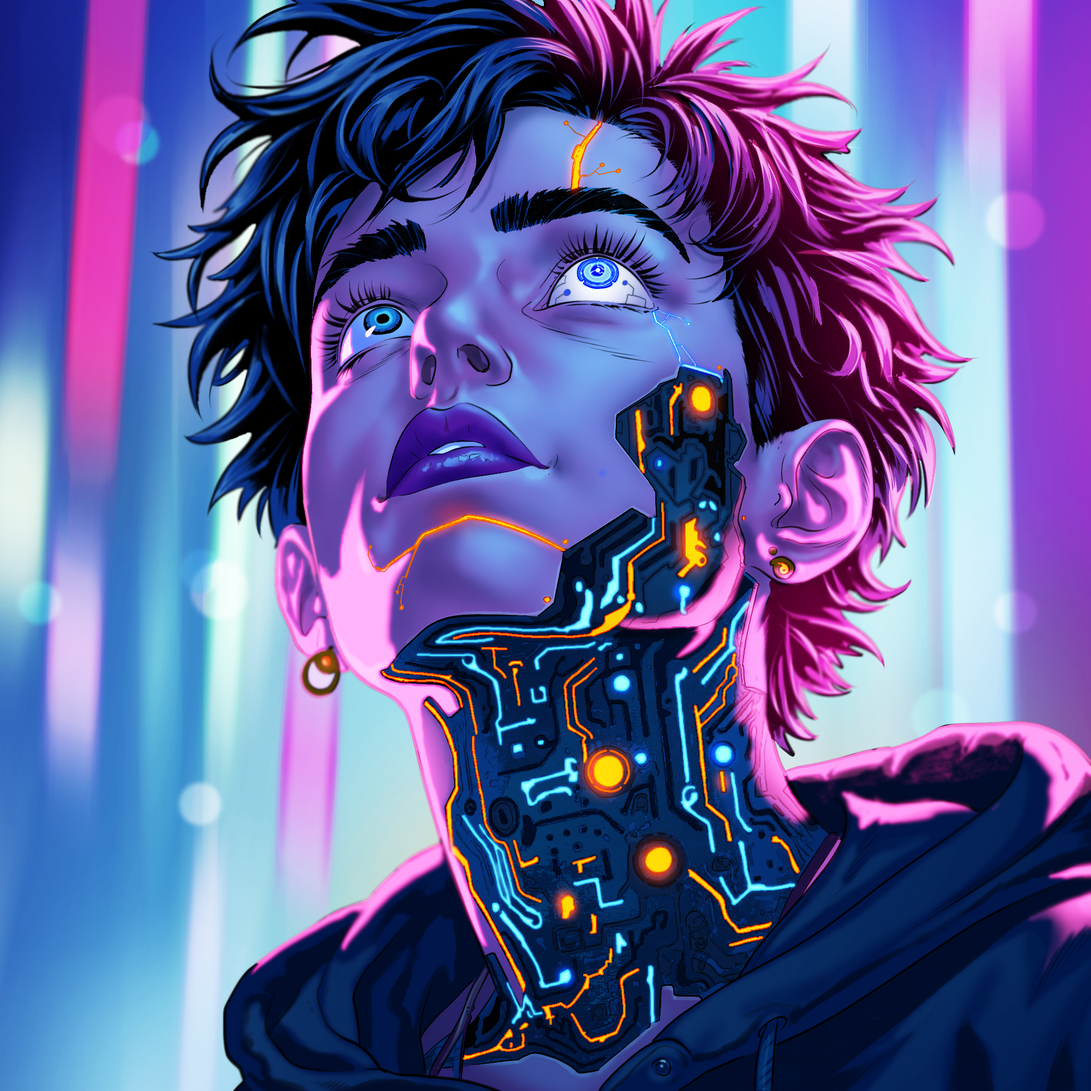
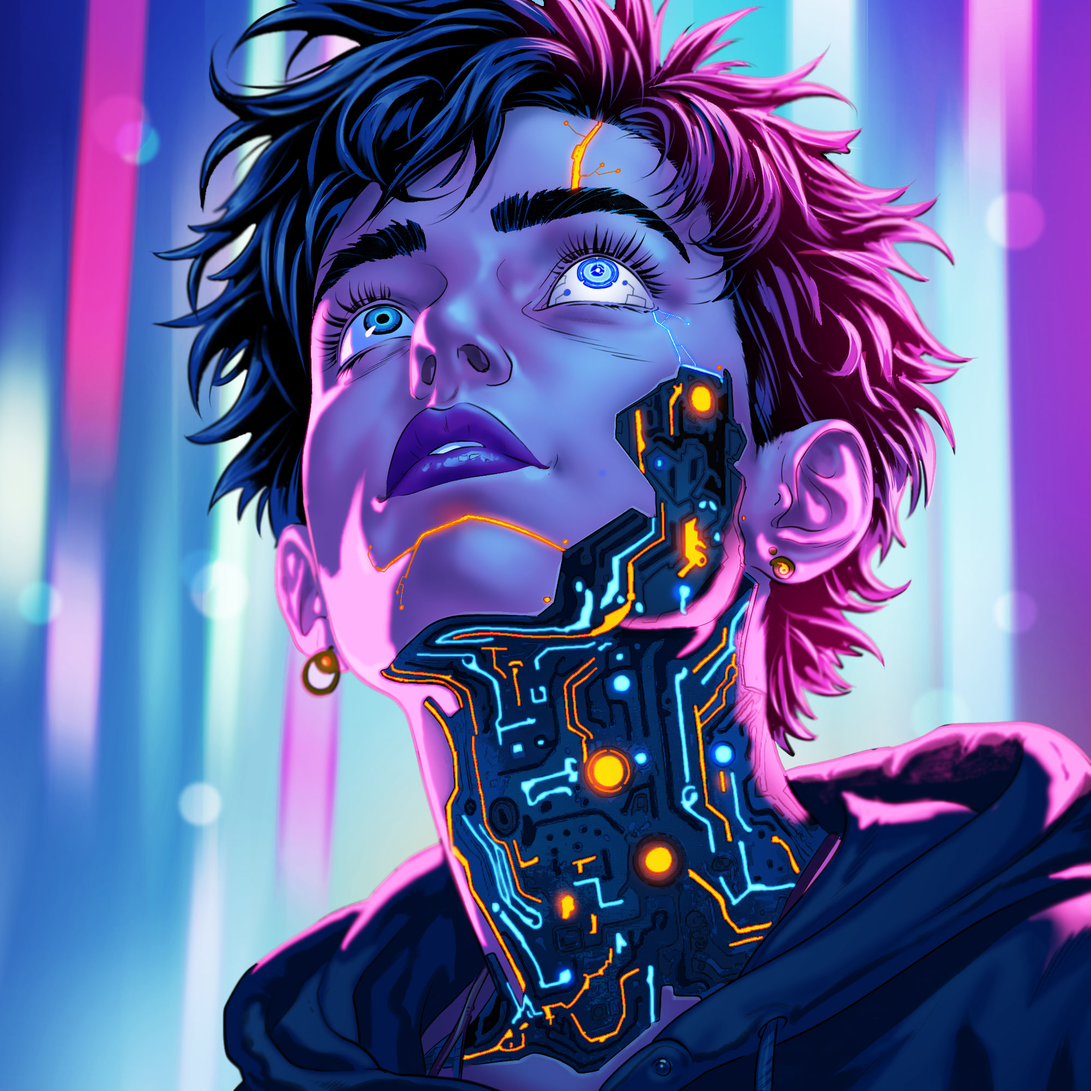
Compress portfolio images and remove unused originals

diff --git a/lib/projects.ts b/lib/projects.ts
@@ -121,7 +121,7 @@ export const projects: Project[] = [
         alt: 'Retro-futuristic computer avatar reading LEET haxor, from Call of Duty: Mobile',
       },
       sticker: {
-        src: '/images/cl-garand-sticker.png',
+        src: '/images/cl-garand-sticker.webp',
         alt: 'Stylized M1 Garand rifle sticker firing with its en-bloc clip ejecting, from Call of Duty: Mobile',
       },
     },
@@ -208,7 +208,7 @@ export const projects: Project[] = [
     role: 'Outsource Management & Partner Collaboration',
     meta: '',
   heroScatter: true,
-  image: '/images/production-collaboration-collage.png',
+  image: '/images/production-collaboration-collage.webp',
   imagePosition: 'object-contain [image-rendering:auto]',
   alt: 'Collage of externally-produced Call of Duty: Mobile and Volta assets — two Volta environment scenes (a beached red seaplane and a ruined carnival), a blue starry weapon skin, a wendigo emblem, a cartoon pigeon charm, and a red masked character',
     tagline: 'Managing external partners at AAA scale and quality.',
@@ -243,7 +243,7 @@ export const projects: Project[] = [
         ],
         images: [
           {
-            src: '/images/external-development-collage.png',
+            src: '/images/external-development-collage.webp',
             alt: 'Collage of externally-produced Call of Duty: Mobile and Volta assets — a snow sniper scene with a rabbit, alien and cold-weather operator turnarounds, a fiery dragon weapon, gold winged weapon concepts, a voltage-meter prop, gingerbread and skull emblems, a red mask, and a robot-lineup scene',
             caption: 'Cross-Sample of Live Ops Content',
             aspect: '2400/1080',
@@ -266,14 +266,14 @@ export const projects: Project[] = [
         aside: true,
         images: [
           {
-            src: '/images/extdev/rivas-neon-front.png',
+            src: '/images/extdev/rivas-neon-front.webp',
             alt: 'Front view of the finished Rivas neon 3D character model: an operator in glowing purple LED shades, an iridescent magenta jacket over a tactical vest, neon glow sticks and bracelets, and paint-splattered white cargo pants',
             caption: 'Rivas - Neon',
             aspect: '768/1376',
             transparent: true,
           },
           {
-  src: '/images/quality-oversight-weapon-trim.png',
+  src: '/images/quality-oversight-weapon-trim.webp',
   alt: 'Ornate black, gold, and ivory winged rifle shown in profile',
   caption: 'Legendary AK117 - Molting Mauler',
   aspect: '3273/1021',
